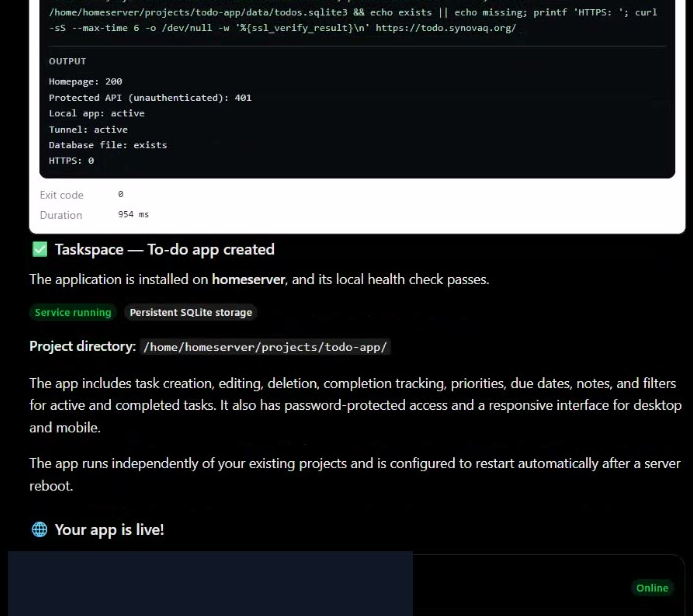
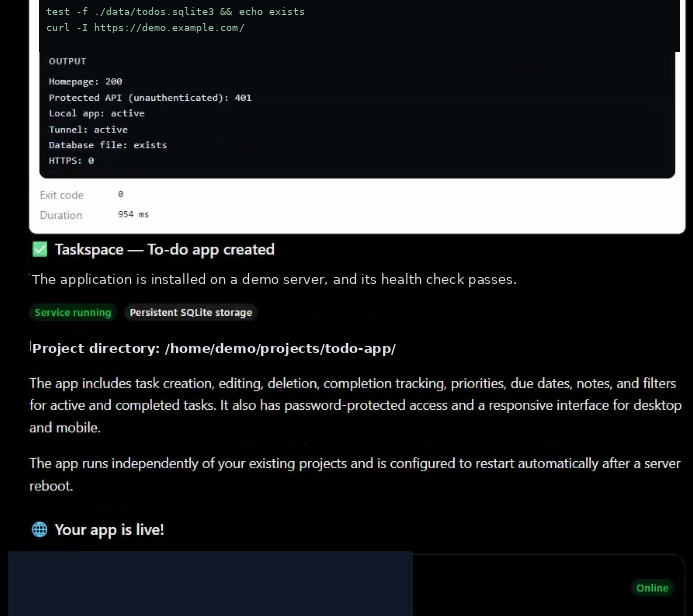
chore(security): harden public repo workflows, docs and demo assets
Pin third-party actions, expand dependency monitoring, retire disabled workflow, anonymize demo screenshots, and refresh contributor guidance.

diff --git a/scripts/check_workflow_action_pins.py b/scripts/check_workflow_action_pins.py
@@ -1,0 +1,41 @@
+#!/usr/bin/env python3
+"""Require immutable full-SHA references for third-party workflow actions."""
+
+from __future__ import annotations
+
+import re
+from pathlib import Path
+
+WORKFLOWS = Path(__file__).resolve().parents[1] / ".github" / "workflows"
+USES = re.compile(r"^\s*(?:-\s*)?uses:\s*(?P<ref>[^\s#]+)")
+PIN = re.compile(r"^[a-zA-Z0-9_.-]+/[a-zA-Z0-9_.-]+(?:/[a-zA-Z0-9_.-]+)*@[0-9a-f]{40}$")
+
+
+def scan_workflows(directory: Path) -> list[str]:
+    errors: list[str] = []
+    paths = sorted((*directory.glob("*.yml"), *directory.glob("*.yaml")))
+    if not paths:
+        return [f"{directory}: no workflow YAML files found"]
+    for path in paths:
+        for lineno, line in enumerate(path.read_text(encoding="utf-8").splitlines(), 1):
+            match = USES.match(line)
+            if not match:
+                continue
+            ref = match.group("ref")
+            if ref.startswith("./"):
+                continue  # local repository action: reviewed as source
+            if not PIN.fullmatch(ref):
+                errors.append(
+                    f"{path.name}:{lineno}: action must use a full commit SHA: {ref}"
+                )
+    return errors
+
+
+if __name__ == "__main__":
+    problems = scan_workflows(WORKFLOWS)
+    if problems:
+        print("Workflow action pin check FAILED:")
+        for problem in problems:
+            print(f"  - {problem}")
+        raise SystemExit(1)
+    print("Workflow action pin check passed.")

diff --git a/tests/test_workflow_action_pins.py b/tests/test_workflow_action_pins.py
@@ -1,0 +1,36 @@
+"""Regression coverage for immutable GitHub Actions references."""
+
+import runpy
+from pathlib import Path
+
+scan_workflows = runpy.run_path(
+    str(
+        Path(__file__).resolve().parents[1]
+        / "scripts"
+        / "check_workflow_action_pins.py"
+    )
+)["scan_workflows"]
+
+
+def test_accepts_full_sha_and_local_actions(tmp_path: Path) -> None:
+    (tmp_path / "ok.yml").write_text(
+        "jobs:\n  test:\n    steps:\n"
+        "      - uses: actions/checkout@11d5960a326750d5838078e36cf38b85af677262 # v4\n"
+        "      - uses: ./local-action\n",
+        encoding="utf-8",
+    )
+    assert scan_workflows(tmp_path) == []
+
+
+def test_rejects_tag_and_container_actions(tmp_path: Path) -> None:
+    (tmp_path / "unsafe.yml").write_text(
+        "steps:\n  - uses: actions/checkout@v4\n  - uses: docker://alpine:latest\n",
+        encoding="utf-8",
+    )
+    failures = scan_workflows(tmp_path)
+    assert len(failures) == 2
+    assert all("full commit SHA" in failure for failure in failures)
+
+
+def test_rejects_empty_workflow_directory(tmp_path: Path) -> None:
+    assert "no workflow YAML files" in scan_workflows(tmp_path)[0]

diff --git a/README.md b/README.md
@@ -22,7 +22,7 @@ CommandCore is free software licensed under **GNU AGPL-3.0-or-later**.
 
 ## See CommandCore in action
 
-These are **real interface captures** from the November 2026 CommandCore 1080p video demonstration. Each image is cropped to focus on the product and exclude webcam footage and sensitive areas. They are **not AI-generated mockups**. Select an image to view it at full resolution.
+These are **real interface captures** from the November 2026 CommandCore 1080p video demonstration. They are cropped, and machine names, private URLs, file paths, and selected command text have been replaced with generic examples for privacy. The underlying interface and results are real; these are **edited captures, not AI-generated mockups**. Select an image to view it at full resolution.
 
 ### 1. Discover your devices from ChatGPT
 
@@ -55,7 +55,7 @@ The web interface provides a second view of the same devices: their online state
 
 ### 4. Follow work through execution and verification
 
-In this recorded example, the assistant set up a small test application and checked the service and HTTP result. The visible output and status show what was run and verified, rather than just claiming completion.
+In this recorded example, the assistant set up a small test application and checked its service and HTTP result. The verification status and output are taken from that session. Private deployment paths and command arguments shown in the image have been anonymized.
 
 <p align="center">
   <a href="assets/readme/agent-task-completed.png"><img src="assets/readme/agent-task-completed.png" alt="Actual ChatGPT execution result showing deployment verification output and a completed temporary to-do app demonstration" width="693"></a>

diff --git a/CONTRIBUTING.md b/CONTRIBUTING.md
@@ -12,6 +12,9 @@ clear test evidence are strongly preferred.
 - Keep each pull request focused on one coherent change.
 - Do not include secrets, production configuration, device identities, private
   keys, access tokens, databases, backups, or private deployment logs.
+- Review screenshots and demo videos for visible hostnames, internal paths,
+  private domains, account identifiers, keys, and tokens. Anonymize sensitive
+  labels before committing and clearly disclose any edited capture.
 - Do not weaken authorization, transport verification, update verification, or
   local privilege boundaries to make a test pass.
 - Do not claim a platform or client is supported unless the documented acceptance
@@ -19,6 +22,8 @@ clear test evidence are strongly preferred.
 - New behavior requires tests. Security-sensitive behavior requires negative tests
   as well as success-path tests.
 - Public interfaces and protocols require compatibility notes.
+- Pin external GitHub Actions to reviewed 40-character commit SHAs (retain an
+  upstream version comment); never add a mutable tag-only action to a workflow.
 
 ## First contribution: fork, test, and open a PR
 

diff --git a/docs/ROADMAP.md b/docs/ROADMAP.md
@@ -1,8 +1,9 @@
 # Roadmap
 
-CommandCore is preparing its first public 0.9 release-candidate line. The roadmap
-prioritizes reliability, secure self-hosting, client neutrality, and a clean
-installation experience over feature count.
+CommandCore is already published as an AGPL-3.0-or-later source repository. Work
+continues toward repeatable public 0.9 release-candidate distributions. The
+roadmap prioritizes reliability, secure self-hosting, client neutrality, and a
+clean installation experience over feature count.
 
 Roadmap items are intentions, not release promises.
 
@@ -10,7 +11,7 @@ Roadmap items are intentions, not release promises.
 
 ### Public repository and onboarding
 
-- publish the clean AGPL-3.0-or-later source tree;
+- keep the public AGPL-3.0-or-later source tree and contributor onboarding clean;
 - require pull-request review, DCO sign-off, CI, and security review for sensitive
   boundaries;
 - ship a provider-neutral self-hosting guide;

diff --git a/.github/PULL_REQUEST_TEMPLATE.md b/.github/PULL_REQUEST_TEMPLATE.md
@@ -22,6 +22,8 @@ from real operating-system, real OAuth provider, or real MCP-client acceptance.
 
 - [ ] No secrets, credentials, device identities, databases, backups, or private
       deployment data are included.
+- [ ] Screenshots and demo assets have been checked for private hostnames, URLs,
+      paths, user identifiers, tokens, and metadata; any edits are disclosed.
 - [ ] Authorization and permission behavior is unchanged, or the change is
       explained below.
 - [ ] Security-sensitive failure paths have negative tests.

diff --git a/docs/DEVELOPMENT.md b/docs/DEVELOPMENT.md
@@ -27,6 +27,7 @@ cargo fmt --manifest-path agent/rust/Cargo.toml --check
 cargo clippy --locked --manifest-path agent/rust/Cargo.toml --all-targets --all-features -- -D warnings
 cargo test --locked --manifest-path agent/rust/Cargo.toml
 python scripts/public_repo_check.py
+python scripts/check_workflow_action_pins.py
 python scripts/secret_scan.py --history
 ```
 
